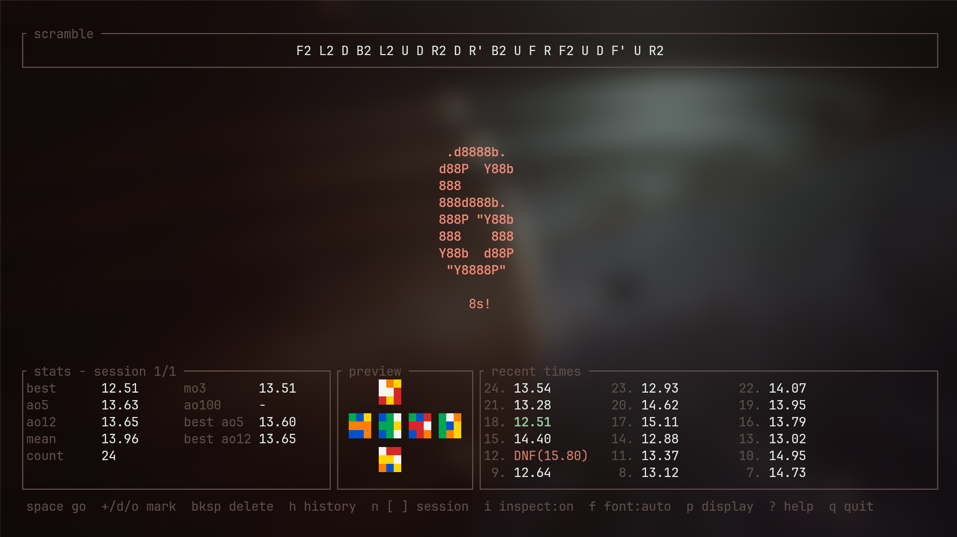
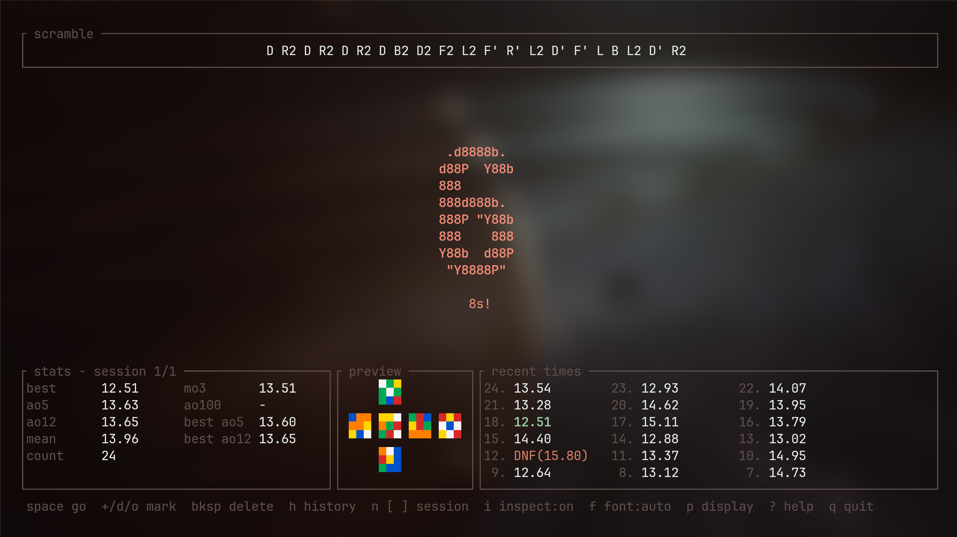
Release docs for 0.1.0: README fixes, CHANGELOG, CI badge, fresh screenshots
- README: the cube preview is the one thing not in ANSI colors; trend chart
  and CSV export exist now, so drop them from the limitations; the key
  tester shows Repeat lines only in some terminals; note / for help and the
  fixed 0.3 s hold; CI badge.
- CHANGELOG.md for 0.1.0.
- All five screenshots retaken from the final build.

Changed region(s): [[0.3939, 0.0596, 0.7273, 0.1192], [0.3636, 0.7151, 0.4848, 0.8939], [0.2727, 0.0894, 0.3333, 0.1192]]

diff --git a/README.md b/README.md
@@ -1,5 +1,7 @@
 # cubetimer
 
+[![CI](https://github.com/thomasmartinoa/cubetimer/actions/workflows/ci.yml/badge.svg)](https://github.com/thomasmartinoa/cubetimer/actions/workflows/ci.yml)
+
 A full-screen speedcubing timer for your terminal. Big ASCII digits, the WCA 15-second
 inspection, hold-and-release start like a Stackmat, WCA-style random-state scrambles with a
 preview of the scrambled cube, and live ao5 / ao12 / ao100 stats.
@@ -7,8 +9,9 @@ preview of the scrambled cube, and live ao5 / ao12 / ao100 stats.
 ![cubetimer, idle: scramble, big last time, stats and recent solves](docs/screenshots/idle.png)
 
 Built for [kitty](https://sw.kovidgoyal.net/kitty/) and written in Rust with
-[ratatui](https://ratatui.rs). It only uses your terminal's ANSI colors, so it picks up
-whatever theme you already run.
+[ratatui](https://ratatui.rs). Apart from the cube preview, which shows the real sticker
+colors, it only uses your terminal's ANSI colors, so it picks up whatever theme you
+already run.
 
 ## Features
 
@@ -94,7 +97,7 @@ kitty --start-as=fullscreen cubetimer
 | `f` / `F` | Next / previous digit font (`auto` first) |
 | `p` | Cycle the running display: `0.01`, whole seconds, hidden |
 | `b` | Turn the inspection bell on or off |
-| `?` or `F1` | Show all keys |
+| `?` or `F1` | Show all keys (`/` works too) |
 | `q` / `Ctrl-C` | Quit (`q` stops the timer if one is running; `Ctrl-C` always quits) |
 
 The mark, delete, history, session, `i` and `?` keys work only when the timer is idle.
@@ -105,9 +108,9 @@ In the history browser, `↑`/`↓` (or `k`/`j`), `PgUp`/`PgDn` and `Home`/`End`
 `o` mark the selected solve, `Backspace` deletes it (asks first) and `Esc` closes.
 
 `cubetimer --help` and `cubetimer --version` work as usual. `cubetimer --export > solves.csv`
-saves every solve (session, number, time, penalty, result, scramble, UTC date) as CSV. Starting a second copy while
-one is running prints `already running` and exits, so two copies can't overwrite each
-other's solves.
+saves every solve as CSV, one row each: session, number, time, penalty, result, scramble
+and UTC date. Starting a second copy while one is running prints `already running` and
+exits, so two copies can't overwrite each other's solves.
 
 Solves are stored in `$XDG_DATA_HOME/cubetimer/sessions.json` (usually
 `~/.local/share/cubetimer/sessions.json`) and written atomically after every change. If
@@ -221,8 +224,9 @@ for help. Terminals disagree on some details (Ghostty and WezTerm send a held ke
 auto-repeat as new presses; WezTerm leaves out Shift on shifted keys), and cubetimer
 handles each of them.
 
-If hold-to-start doesn't behave, run the key tester and check that you see `Press`,
-`Repeat` and `Release` lines for space:
+If hold-to-start doesn't behave, run the key tester, hold space for a second and check
+that you see a `Press` line and then a `Release` line (in between, kitty, foot and
+Alacritty show `Repeat` lines; Ghostty and WezTerm show more `Press` lines):
 
 ```sh
 cargo run --example keytest
@@ -235,7 +239,9 @@ The first line should say `keyboard enhancement: ON`.
 ## Limitations
 
 - 3x3 only.
-- No graphs, Bluetooth smart cubes, csTimer import/export, or session names.
+- No import from csTimer or other timers (export to CSV is supported), no session names,
+  and no Bluetooth smart cubes.
+- The hold time before the timer is ready is fixed at 0.3 s.
 - The scramble preview uses true color (24-bit), which every terminal listed above
   supports.
 
@@ -243,7 +249,7 @@ The first line should say `keyboard enhancement: ON`.
 
 ```sh
 cargo test                 # cube model, solver, scrambles, formatting, stats, fonts, state machine, layouts
-cargo clippy --all-targets
+cargo clippy --all-targets -- -D warnings
 cargo run --example keytest
 cargo run --release --example scramblebench -- 2000   # solver speed and scramble lengths
 ```

diff --git a/CHANGELOG.md b/CHANGELOG.md
@@ -1,0 +1,15 @@
+# Changelog
+
+## 0.1.0
+
+First release.
+
+- Full-screen timer with big digits in seven fonts, sized to the window by default.
+- WCA inspection: 15 s countdown, 8 s and 12 s warnings, +2 from 15 s and DNF from 17 s.
+- Hold-and-release start through the kitty keyboard protocol, with a basic mode for
+  terminals without it. Tested in kitty, foot, Alacritty, Ghostty and WezTerm.
+- WCA-style random-state scrambles (uniform random state, two-phase solver, at most 21
+  moves) with a colored preview of the scrambled cube.
+- Stats: best, mean, mo3, ao5, ao12, ao100, best ao5 and best ao12, with WCA rounding.
+- History browser with a trend chart; mark or delete any solve.
+- Sessions, saved atomically after every change; `--export` to CSV.
